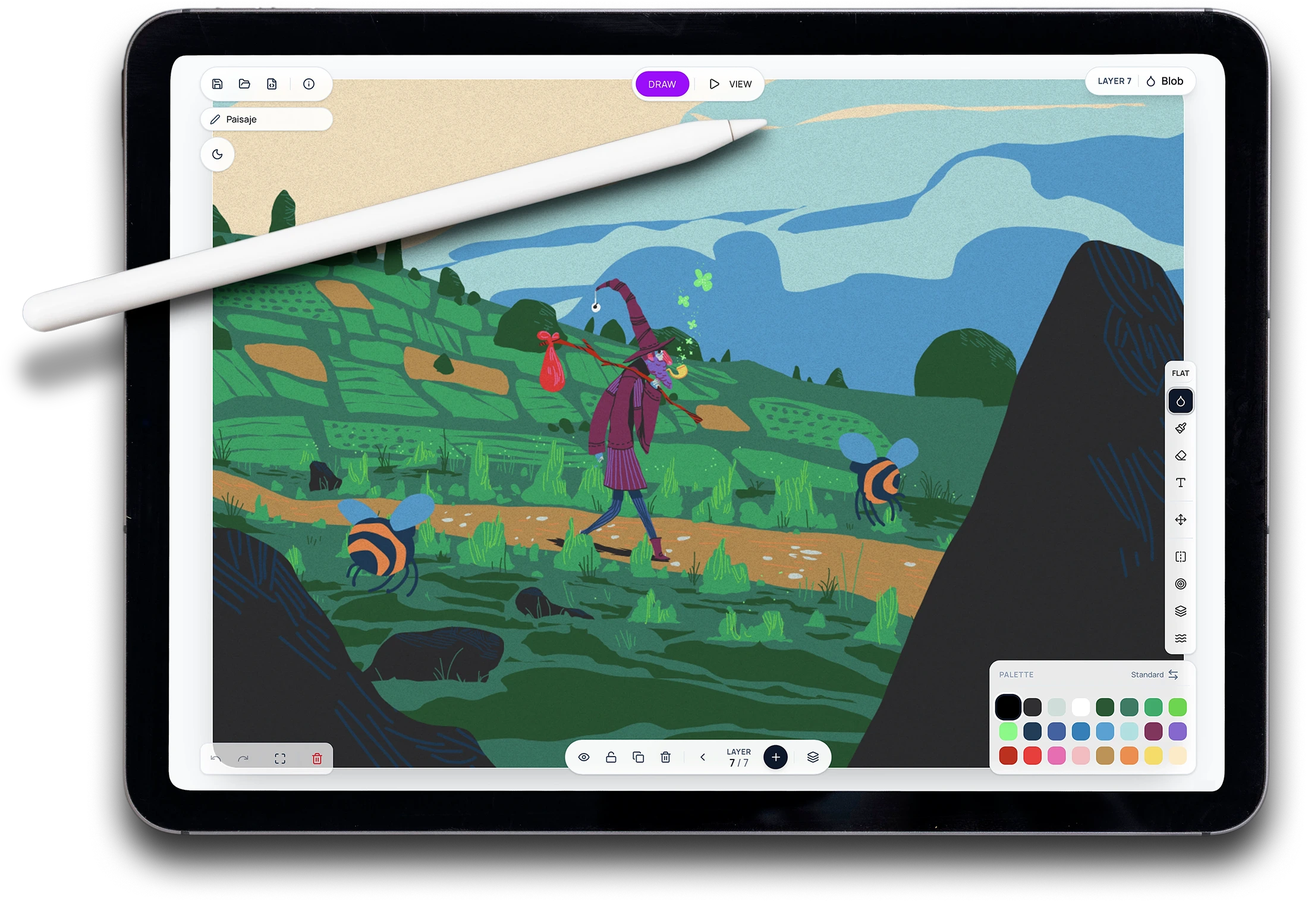
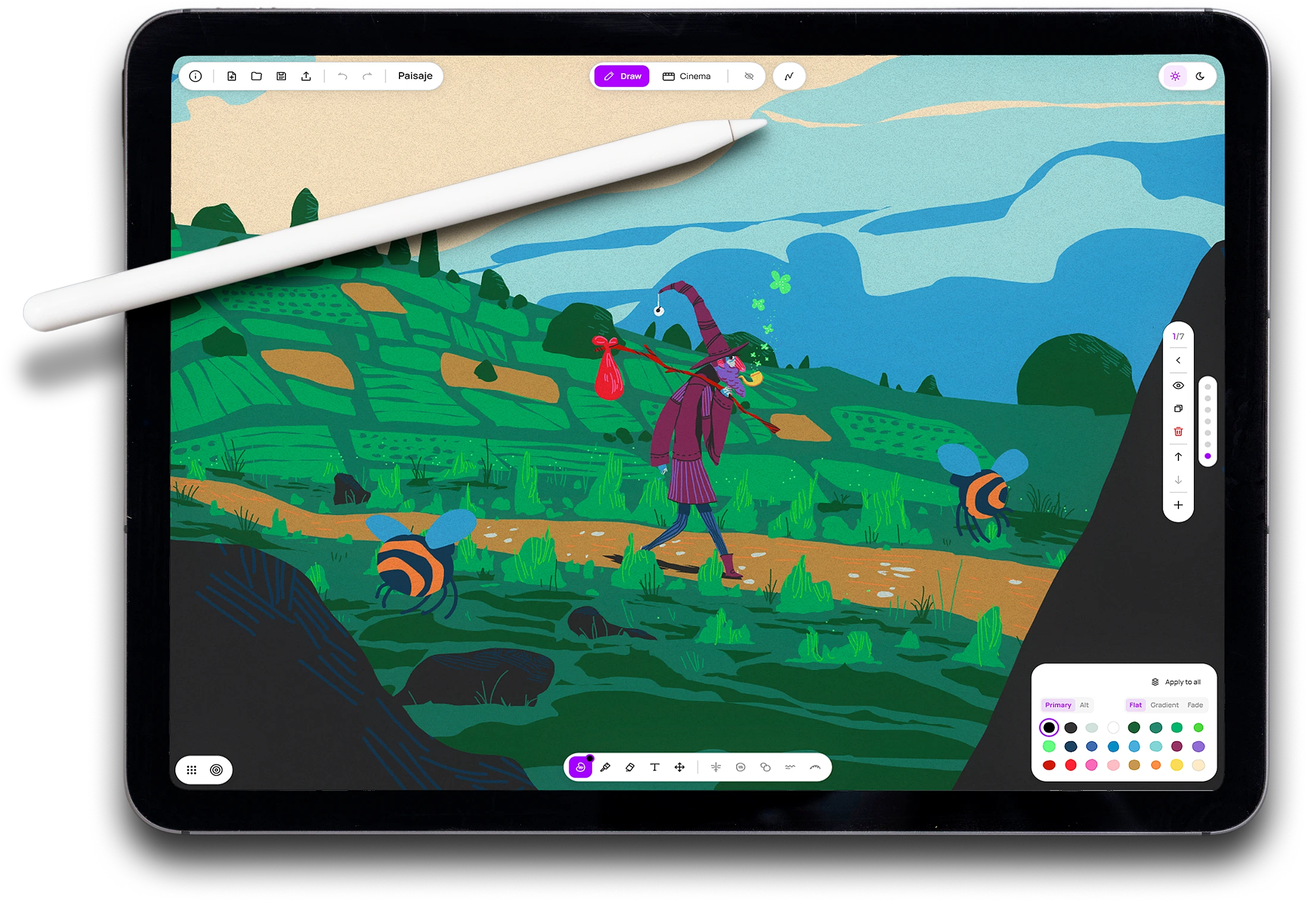
feat: update ipad.webp asset; fix tool-card SVG size 32→64px

diff --git a/es/index.html b/es/index.html
@@ -896,12 +896,12 @@
         <h2 class="sec-heading reveal">Dibuja sin distracciones con solo dos herramientas. En Diorame, cada capa se posiciona automáticamente en el espacio 3D, sin configuración manual ni líos y sin sliders de profundidad.</h2>
         <div class="tools-grid reveal-stagger">
           <div class="tool-card">
-            <svg xmlns="http://www.w3.org/2000/svg" viewBox="0 0 24 24" width="32" height="32" fill="none" stroke="currentColor" stroke-width="1.5" stroke-linecap="round" stroke-linejoin="round" aria-hidden="true"><path d="M16.55 12.05L13.55 15.05M14.55 11.05L10.55 15.05M12.05 11.05L9.05 13.55M9.05 9.05C7.25 6.9 9.15 3.65 12.65 4.25C16.05 4.75 18.95 7.85 19.05 12.05C19.15 15.95 18.25 18.15 14.65 19.35C10.65 20.75 4.95 19.05 4.95 14.85C5.05 11.05 10.84 11.2 9.05 9.05Z"/></svg>
+            <svg xmlns="http://www.w3.org/2000/svg" viewBox="0 0 24 24" width="64" height="64" fill="none" stroke="currentColor" stroke-width="1.5" stroke-linecap="round" stroke-linejoin="round" aria-hidden="true"><path d="M16.55 12.05L13.55 15.05M14.55 11.05L10.55 15.05M12.05 11.05L9.05 13.55M9.05 9.05C7.25 6.9 9.15 3.65 12.65 4.25C16.05 4.75 18.95 7.85 19.05 12.05C19.15 15.95 18.25 18.15 14.65 19.35C10.65 20.75 4.95 19.05 4.95 14.85C5.05 11.05 10.84 11.2 9.05 9.05Z"/></svg>
             <h3>Blob</h3>
             <p>Formas rellenas orgánicas con modos de simetría, dibujar dentro y dibujar detrás</p>
           </div>
           <div class="tool-card">
-            <svg xmlns="http://www.w3.org/2000/svg" viewBox="0 0 24 24" width="32" height="32" fill="none" stroke="currentColor" stroke-width="1.5" stroke-linecap="round" stroke-linejoin="round" aria-hidden="true"><path d="M9.52 13.25C7.52 15.25 3.52 18.25 4.02 19.25C5.52 21.25 9.02 16.75 11.02 14.75M16.02 13.25L10.89 8.38L9.44 9.84C8.65 10.62 8.65 11.88 9.44 12.66L11.61 14.84C12.39 15.62 13.65 15.62 14.44 14.84L16.02 13.25ZM16.02 13.25L20.02 9.25L15.02 4.25L10.52 8.75M14.52 8.25L16.52 6.25"/></svg>
+            <svg xmlns="http://www.w3.org/2000/svg" viewBox="0 0 24 24" width="64" height="64" fill="none" stroke="currentColor" stroke-width="1.5" stroke-linecap="round" stroke-linejoin="round" aria-hidden="true"><path d="M9.52 13.25C7.52 15.25 3.52 18.25 4.02 19.25C5.52 21.25 9.02 16.75 11.02 14.75M16.02 13.25L10.89 8.38L9.44 9.84C8.65 10.62 8.65 11.88 9.44 12.66L11.61 14.84C12.39 15.62 13.65 15.62 14.44 14.84L16.02 13.25ZM16.02 13.25L20.02 9.25L15.02 4.25L10.52 8.75M14.52 8.25L16.52 6.25"/></svg>
             <h3>Brush</h3>
             <p>Trazos en tres estilos: fluído, uniforme o tinta, y con grosor ajustable no destructivo</p>
           </div>

diff --git a/en/index.html b/en/index.html
@@ -896,12 +896,12 @@
         <h2 class="sec-heading reveal">Draw without distractions using just two tools. In Diorame, every layer is automatically positioned in 3D space — no manual setup, no depth sliders.</h2>
         <div class="tools-grid reveal-stagger">
           <div class="tool-card">
-            <svg xmlns="http://www.w3.org/2000/svg" viewBox="0 0 24 24" width="32" height="32" fill="none" stroke="currentColor" stroke-width="1.5" stroke-linecap="round" stroke-linejoin="round" aria-hidden="true"><path d="M16.55 12.05L13.55 15.05M14.55 11.05L10.55 15.05M12.05 11.05L9.05 13.55M9.05 9.05C7.25 6.9 9.15 3.65 12.65 4.25C16.05 4.75 18.95 7.85 19.05 12.05C19.15 15.95 18.25 18.15 14.65 19.35C10.65 20.75 4.95 19.05 4.95 14.85C5.05 11.05 10.84 11.2 9.05 9.05Z"/></svg>
+            <svg xmlns="http://www.w3.org/2000/svg" viewBox="0 0 24 24" width="64" height="64" fill="none" stroke="currentColor" stroke-width="1.5" stroke-linecap="round" stroke-linejoin="round" aria-hidden="true"><path d="M16.55 12.05L13.55 15.05M14.55 11.05L10.55 15.05M12.05 11.05L9.05 13.55M9.05 9.05C7.25 6.9 9.15 3.65 12.65 4.25C16.05 4.75 18.95 7.85 19.05 12.05C19.15 15.95 18.25 18.15 14.65 19.35C10.65 20.75 4.95 19.05 4.95 14.85C5.05 11.05 10.84 11.2 9.05 9.05Z"/></svg>
             <h3>Blob</h3>
             <p>Organic filled shapes with symmetry, draw inside, and draw behind modes</p>
           </div>
           <div class="tool-card">
-            <svg xmlns="http://www.w3.org/2000/svg" viewBox="0 0 24 24" width="32" height="32" fill="none" stroke="currentColor" stroke-width="1.5" stroke-linecap="round" stroke-linejoin="round" aria-hidden="true"><path d="M9.52 13.25C7.52 15.25 3.52 18.25 4.02 19.25C5.52 21.25 9.02 16.75 11.02 14.75M16.02 13.25L10.89 8.38L9.44 9.84C8.65 10.62 8.65 11.88 9.44 12.66L11.61 14.84C12.39 15.62 13.65 15.62 14.44 14.84L16.02 13.25ZM16.02 13.25L20.02 9.25L15.02 4.25L10.52 8.75M14.52 8.25L16.52 6.25"/></svg>
+            <svg xmlns="http://www.w3.org/2000/svg" viewBox="0 0 24 24" width="64" height="64" fill="none" stroke="currentColor" stroke-width="1.5" stroke-linecap="round" stroke-linejoin="round" aria-hidden="true"><path d="M9.52 13.25C7.52 15.25 3.52 18.25 4.02 19.25C5.52 21.25 9.02 16.75 11.02 14.75M16.02 13.25L10.89 8.38L9.44 9.84C8.65 10.62 8.65 11.88 9.44 12.66L11.61 14.84C12.39 15.62 13.65 15.62 14.44 14.84L16.02 13.25ZM16.02 13.25L20.02 9.25L15.02 4.25L10.52 8.75M14.52 8.25L16.52 6.25"/></svg>
             <h3>Brush</h3>
             <p>Strokes in three styles — Tapered, Uniform, or Ink — with adjustable thickness</p>
           </div>
